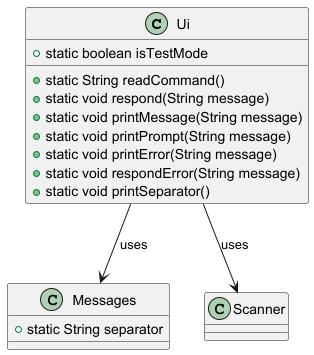
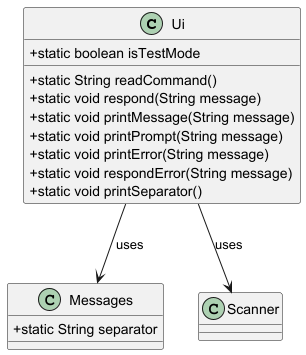
Fix UI component class diagram

diff --git a/docs/UserGuide.md b/docs/UserGuide.md
@@ -137,48 +137,57 @@ Format: `[1 | 2 | 3 | 4 | QUIT]`
 - `4` Answer 4
 
 ### Star/flag flashcard: `star`
-Star/flag a flashcard by its index.
-The flashcard starred will how have "Starred" as its status shown whenever it is listed/displayed. 
-The starred flashcard is depicted in the stored file. 
+Star/flag a flashcard by its index.  
+The flashcard starred will now have "Starred" as its status shown whenever it is listed/displayed.  
+The starred flashcard is also updated in the stored file.
 
-Format: `star INDEX`
-Example:
+**Format:** `star INDEX`  
+**Example:**
 
--`star 1`
-- Output: ```bash
+- `star 1`
+- **Output:**
+```bash
 ____________________________________________________________
 Starred this flashcard:
 Question: 1 | Answer: 1 | Starred
 ____________________________________________________________
+```
 
+---
 
 ### Unstar flashcard: `unstar`
-Unstar a flashcard by its index
-The unstarred flashcard will how have "" as its status shown whenever it is listed/displayed.
-The unstarred flashcard is depicted in the stored file.
+Unstar a flashcard by its index.  
+The unstarred flashcard will now have an empty status shown whenever it is listed/displayed.  
+The unstarred flashcard is also updated in the stored file.
 
-Format: `unstar INDEX`
+**Format:** `unstar INDEX`  
+**Example:**
 
-Example:
 - `unstar 2`
-- Output: ```bash
+- **Output:**
+```bash
 ____________________________________________________________
 Unstarred this flashcard:
-Question: 1 | Answer: 1 |
+Question: 2 | Answer: 2 |
 ____________________________________________________________
+```
+
+---
 
 ### Retrieve all starred flashcards: `getstar`
-Helps user retrieve all starred flashcards. 
+Retrieve all starred flashcards.
 
-Format: `getstar`
+**Format:** `getstar`  
+**Example:**
 
-Example:
 - `getstar`
-- Output: ```bash
+- **Output:**
+```bash
 ____________________________________________________________
 These are your starred flashcards:
 1. Question: 1 | Answer: 1 | Starred
 ____________________________________________________________
+```
 
 ### Exit the program: `exit`
 Exit the program
@@ -203,7 +212,7 @@ Format: `exit`
 | Delete  | `delete INDEX`                  |
 | Search  | `search KEYPHRASE`              |
 | Review  | `review m/[FLIP  \| TF \| MCQ]` |
-| star    | `star INDEX`                    |
+| Star    | `star INDEX`                    |
 | List    | `list`                          |
 | Exit    | `exit`                          |
 | Help    | `help`                          |

diff --git a/docs/DeveloperGuide.md b/docs/DeveloperGuide.md
@@ -23,6 +23,8 @@
    - [Feature 3: Search Flashcard](#feature-3-search-flashcard)
    - [Feature 4: Review Flashcards](#feature-4-review-flashcards)
    - [Feature 5: Star Flashcard](#feature-5-star-flashcard)
+   - [Feature 6: Unstar Flashcard](#feature-6-unstar-flashcard)
+   - [Feature 7: Get Starred Flashcards](#feature-7-getstar-flashcard)
 4. [Requirements](#requirements)
    - [Use Cases](#use-cases)
    - [Non-Functional Requirements (NFRs)](#non-functional-requirements-nfrs)
